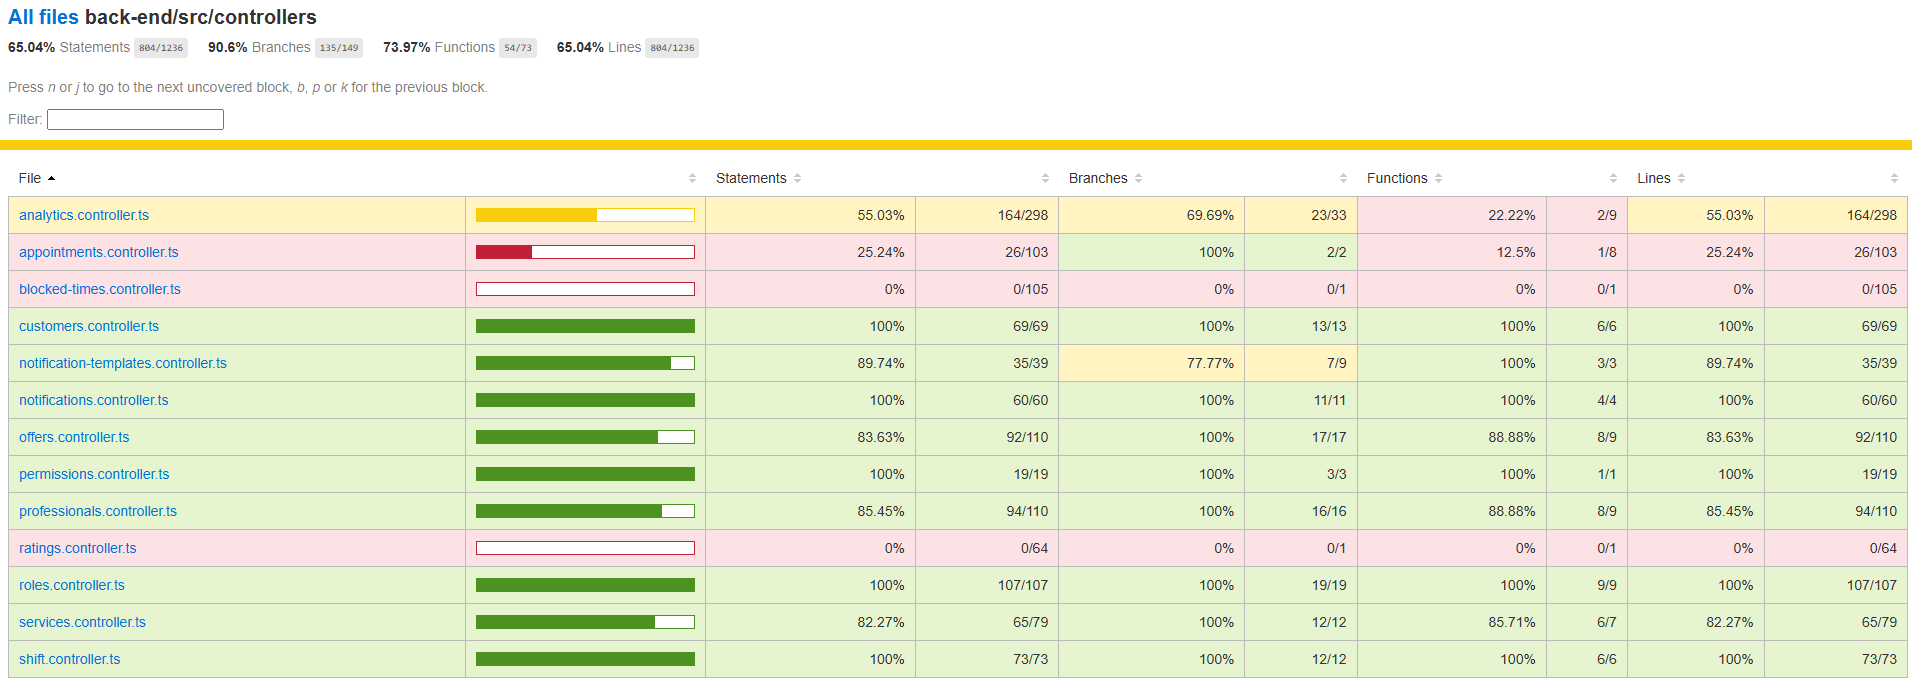
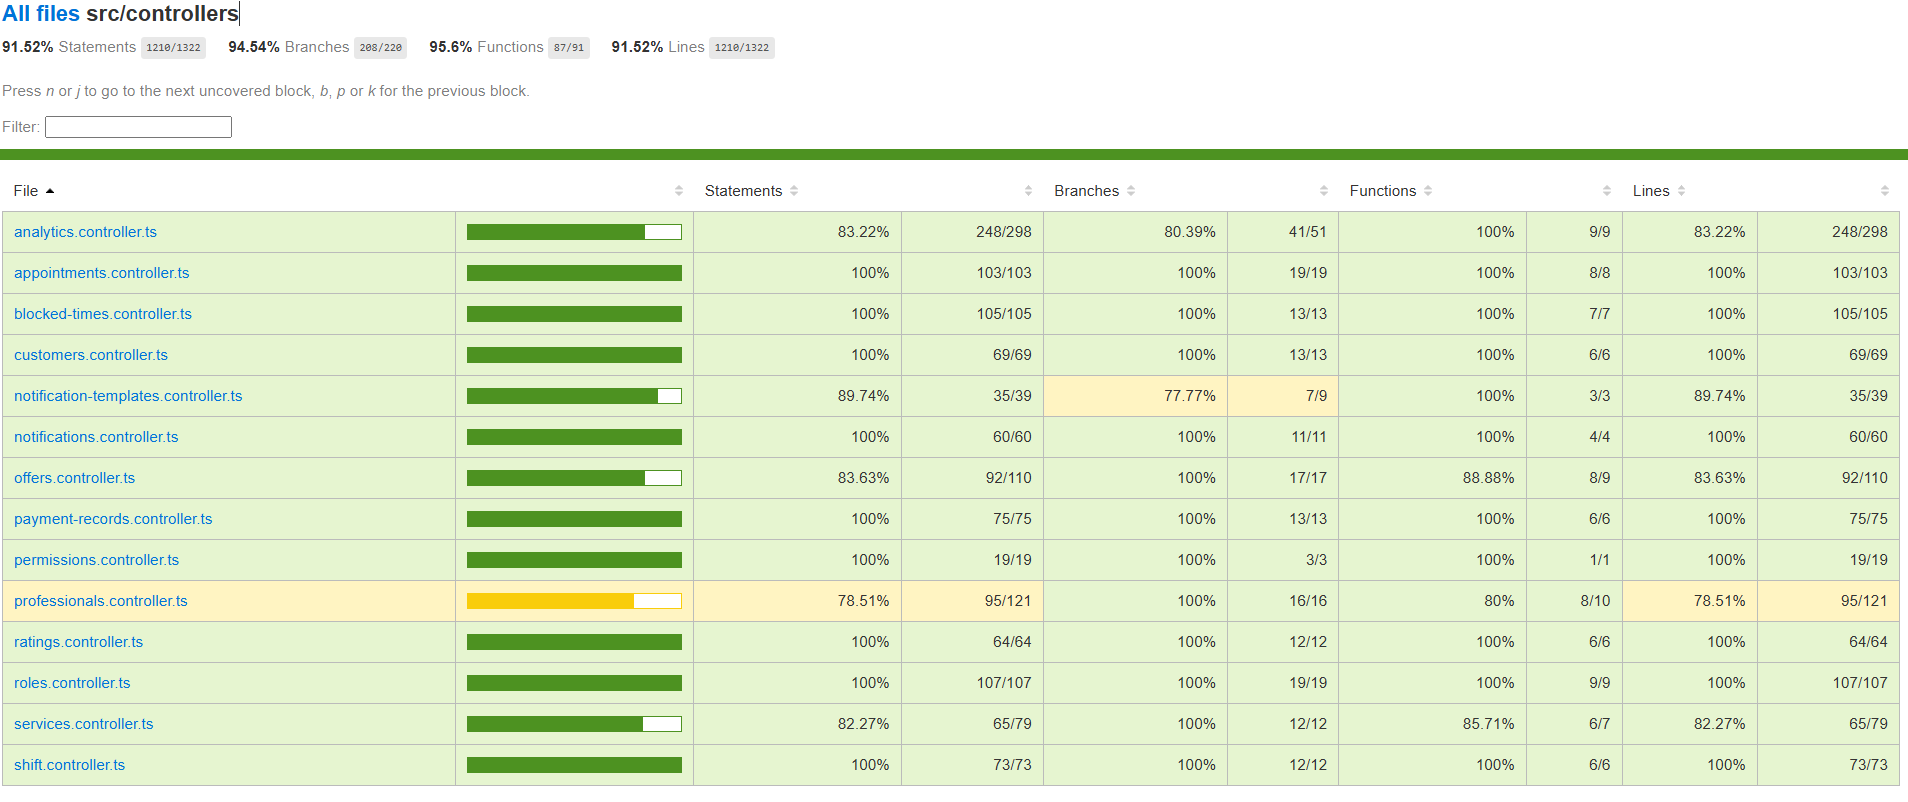
docs: enhance unit test coverage appendix with detailed metrics and updated images

Changed region(s): [[0.0, 0.0, 1.0, 1.0]]

diff --git a/docs/documentation/abntex2/apendices/apendice-testes-unitarios.tex b/docs/documentation/abntex2/apendices/apendice-testes-unitarios.tex
@@ -1,18 +1,80 @@
 \chapter{Cobertura de Testes Unitários}
 \label{ap:teste-unitario}
 
-Este apêndice apresenta os relatórios de cobertura de testes unitários obtidos durante o desenvolvimento do sistema, bem como capturas de tela obtidas por meio do framework \textit{Vitest}.
+Este apêndice apresenta um recorte dos relatórios de cobertura de testes unitários
+obtidos durante o desenvolvimento do sistema, bem como capturas de tela geradas
+automaticamente pelo \textit{framework} \textbf{Vitest}. Os relatórios aqui
+apresentados referem-se à versão estável utilizada para a elaboração deste documento.
 
-\begin{figure}[hbtp]
+\section*{Resumo da cobertura}
+
+De forma geral, o \textit{back-end} alcançou os seguintes índices de cobertura:
+
+\begin{itemize}
+	\item \textbf{Cobertura global do diretório \texttt{src/}:}
+	cerca de \textbf{96{,}71\%} de instruções/linhas,
+	\textbf{98{,}55\%} de funções e
+	\textbf{92{,}32\%} de ramos.
+	\item \textbf{Módulo \texttt{src/controllers}:}
+	aproximadamente \textbf{91{,}52\%} de instruções/linhas,
+	\textbf{95{,}6\%} de funções e
+	\textbf{94{,}54\%} de ramos.
+	\item \textbf{Módulo \texttt{src/controllers/auth}:}
+	aproximadamente \textbf{97{,}36\%} de instruções/linhas,
+	\textbf{100\%} de funções e
+	\textbf{96{,}15\%} de ramos.
+	\item \textbf{Módulo \texttt{src/services}:}
+	aproximadamente \textbf{98{,}21\%} de instruções/linhas,
+	\textbf{99{,}25\%} de funções e
+	\textbf{92{,}68\%} de ramos.
+	\item \textbf{Módulo \texttt{src/services/use-cases/auth}:}
+	\textbf{100\%} de instruções/linhas e funções, com
+	cerca de \textbf{97{,}65\%} de ramos.
+\end{itemize}
+
+Esses valores indicam que os principais fluxos de negócio estão amplamente exercitados pelos testes unitários.
+
+\section*{Capturas dos relatórios de cobertura}
+
+A seguir, são apresentadas capturas da interface de relatório de cobertura, com foco
+na visão geral do projeto e nos módulos mais relevantes.
+
+\begin{figure}[htbp]
 	\centering
-	\includegraphics[width=1\textwidth]{apendices/images/cobertura-controllers.png}
-	\caption{Relatório de cobertura de testes unitários das controllers.}
-	\label{fig:coverage-agendamento}
+	\includegraphics[width=\textwidth]{apendices/images/cobertura-geral.png}
+	\caption{Visão geral da cobertura de testes unitários do diretório \texttt{src/}.}
+	\label{fig:coverage-src-geral}
+	\fonte{Produzido pelos autores a partir do relatório de cobertura do Vitest.}
 \end{figure}
 
-\begin{figure}[hbtp]
+\begin{figure}[htbp]
 	\centering
-	\includegraphics[width=1\textwidth]{apendices/images/captura-cobertura-auth-controllers.png}
-	\caption{Relatório de cobertura de testes unitários das controllers de autenticação.}
-	\label{fig:coverage-agendamento}
+	\includegraphics[width=\textwidth]{apendices/images/cobertura-controllers.png}
+	\caption{Cobertura de testes unitários das \textit{controllers} do back-end.}
+	\label{fig:coverage-controllers}
+	\fonte{Produzido pelos autores a partir do relatório de cobertura do Vitest.}
+\end{figure}
+
+\begin{figure}[htbp]
+	\centering
+	\includegraphics[width=\textwidth]{apendices/images/cobertura-auth-controllers.png}
+	\caption{Cobertura de testes unitários das \textit{controllers} de autenticação.}
+	\label{fig:coverage-controllers-auth}
+	\fonte{Produzido pelos autores a partir do relatório de cobertura do Vitest.}
+\end{figure}
+
+\begin{figure}[htbp]
+	\centering
+	\includegraphics[width=\textwidth]{apendices/images/cobertura-services.png}
+	\caption{Cobertura de testes unitários dos \textit{services} (casos de uso) do back-end.}
+	\label{fig:coverage-services}
+	\fonte{Produzido pelos autores a partir do relatório de cobertura do Vitest.}
+\end{figure}
+
+\begin{figure}[htbp]
+	\centering
+	\includegraphics[width=\textwidth]{apendices/images/cobertura-auth-services.png}
+	\caption{Cobertura de testes unitários dos casos de uso de autenticação.}
+	\label{fig:coverage-services-auth}
+	\fonte{Produzido pelos autores a partir do relatório de cobertura do Vitest.}
 \end{figure}

diff --git a/docs/documentation/abntex2/main.tex b/docs/documentation/abntex2/main.tex
@@ -564,18 +564,15 @@ title={LISTA DE SIGLAS }
 	% ---
 	% Inicia os apêndices
 	% ---
-%	\begin{apendicesenv}
+	\begin{apendicesenv}
 		
 		% Imprime uma página indicando o início dos apêndices
-%		\partapendices
+		\partapendices
 		
-		% ----------------------------------------------------------
-%		\chapter{exemplo 1}
-		% ----------------------------------------------------------
+		\input{apendices/apendice-testes-unitarios.tex}
+	
 		
-%		materiais desenvolvidos pelo próprio autor do trabalho
-		
-%	\end{apendicesenv}
+	\end{apendicesenv}
 	
 	% ----------------------------------------------------------
 	% Anexos
